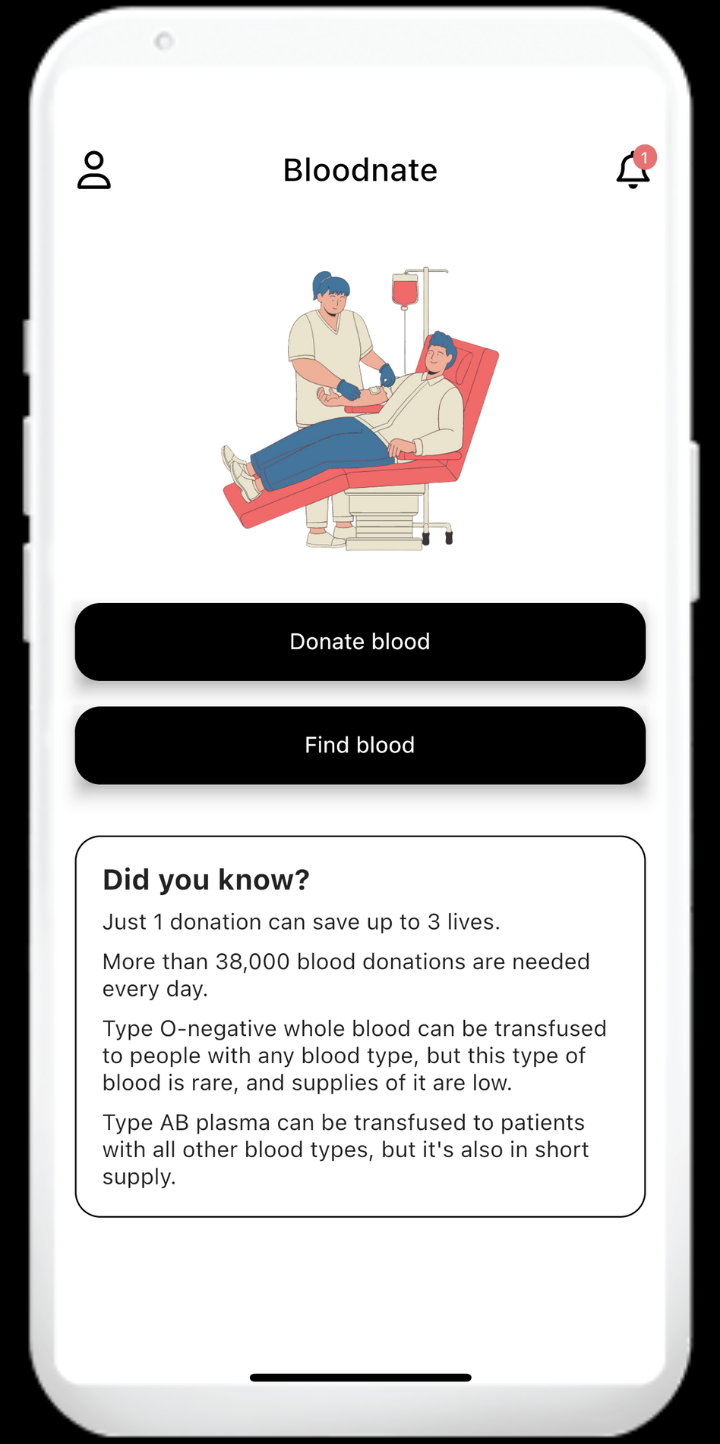
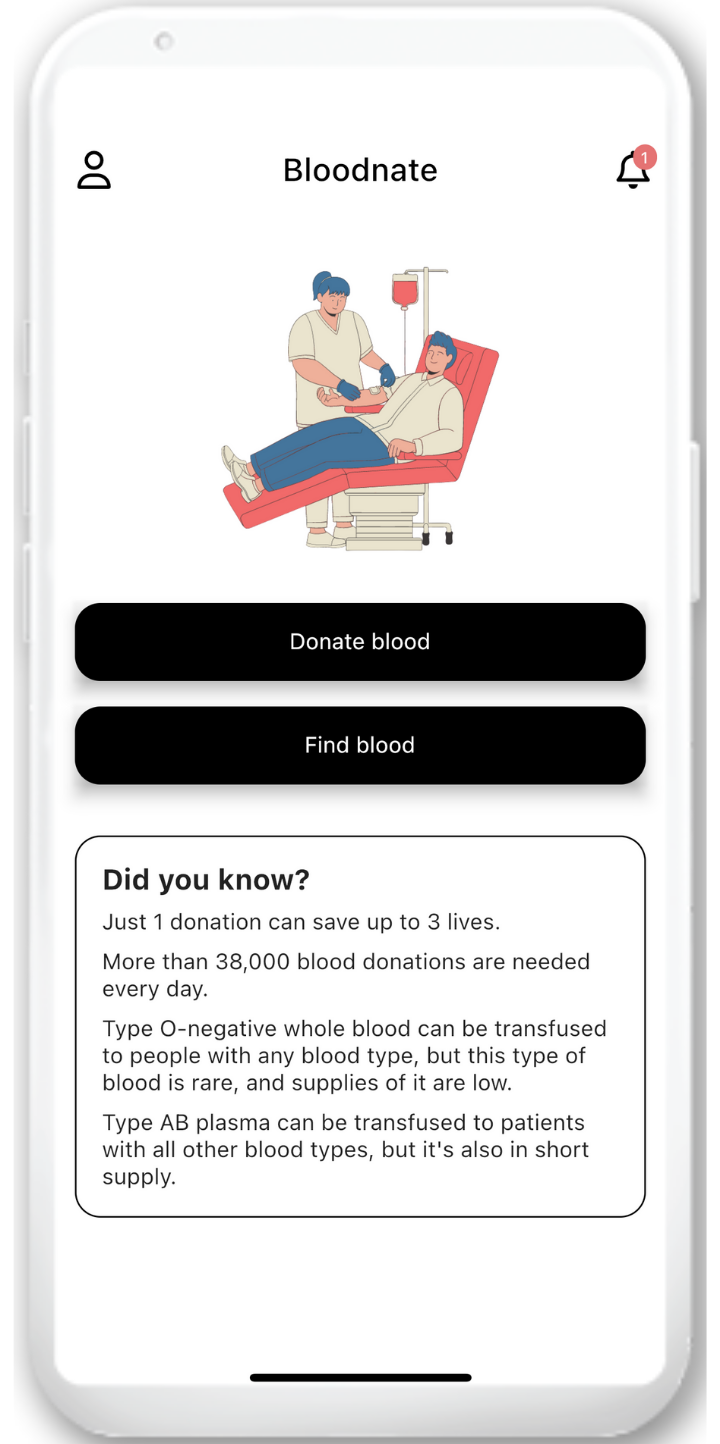
adds home header

Changed region(s): [[0.0, 0.0, 1.0, 1.0]]

diff --git a/lib/components/home_header.dart b/lib/components/home_header.dart
@@ -1,0 +1,160 @@
+import 'package:bloodnate_website/constants_and_methods.dart';
+import 'package:flutter/material.dart';
+
+class HomeHeader extends StatelessWidget {
+  const HomeHeader({super.key});
+
+  @override
+  Widget build(BuildContext context) {
+    if(isMobile(context) || isTablet(context)){
+      return const Mobile();
+    }
+    return const Desktop();
+  }
+}
+
+class Desktop extends StatelessWidget {
+  const Desktop({super.key});
+
+  @override
+  Widget build(BuildContext context) {
+    return Container(
+      padding: const EdgeInsets.all(48),
+      child: Row(
+        children: const [
+          Expanded(
+            child: Content()
+          ),
+          Expanded(
+              child: BloodnateImage()
+          )
+        ],
+      ),
+    );
+  }
+}
+
+class Mobile extends StatelessWidget {
+  const Mobile({super.key});
+
+  @override
+  Widget build(BuildContext context) {
+    return Container(
+      padding: const EdgeInsets.all(24),
+      child: Column(
+        children: const [
+          Content(),
+          SizedBox(height: 32,),
+          BloodnateImage()
+        ],
+      ),
+    );
+  }
+}
+
+class BloodnateImage extends StatelessWidget {
+  const BloodnateImage({
+    super.key,
+  });
+
+  @override
+  Widget build(BuildContext context) {
+    return Center(
+            child: Stack(
+    alignment: AlignmentDirectional.center,
+    children: [
+      Image.asset(
+        'assets/curls.png',
+        height: isMobile(context)?300:500,
+      ),
+      Image.asset(
+        'assets/0.png',
+        height: isMobile(context)?300:500,
+      ),
+      Image.asset(
+        'assets/cone.png',
+        height: isMobile(context)?300:500,
+      )
+    ],
+            ),
+          );
+  }
+}
+
+class Content extends StatelessWidget {
+  const Content({
+    super.key,
+  });
+
+  @override
+  Widget build(BuildContext context) {
+    return Column(
+      crossAxisAlignment: CrossAxisAlignment.start,
+      children: [
+        Row(
+          children: [
+            Image.asset(
+              'assets/bloodnate_logo.png',
+              height: 48,
+            ),
+            const Text(
+              'Bloodnate',
+              style: TextStyle(
+                  color: Colors.white,
+                  fontSize: 24,
+                  fontWeight: FontWeight.bold),
+            ),
+          ],
+        ),
+        const SizedBox(
+          height: 24,
+        ),
+        Text(
+          'Launching\nSoon...',
+          style: TextStyle(
+              color: Colors.white,
+              fontSize: (isDesktop(context)?72:48),
+              fontWeight: FontWeight.bold),
+        ),
+        const SizedBox(
+          height: 24,
+        ),
+        Text(
+          tagLine,
+          style: const TextStyle(
+              color: Colors.white,
+              fontSize: 16,
+              overflow: TextOverflow.visible),
+        ),
+        const SizedBox(
+          height: 16,
+        ),
+        Text(
+          desc,
+          style: const TextStyle(
+              color: Colors.white,
+              fontSize: 16,
+              overflow: TextOverflow.visible),
+        ),
+        const SizedBox(
+          height: 24,
+        ),
+        TextButton(
+          onPressed: () {},
+          style: TextButton.styleFrom(
+            padding: const EdgeInsets.symmetric(
+                vertical: 20, horizontal: 32),
+            side: BorderSide(color: Colors.red.shade300, width: 2),
+          ),
+          child: const Text(
+            'Contact us',
+            style: TextStyle(
+                color: Colors.white,
+                fontWeight: FontWeight.bold,
+                fontSize: 16),
+          ),
+        )
+      ],
+    );
+  }
+}

diff --git a/lib/pages/homepage.dart b/lib/pages/homepage.dart
@@ -1,3 +1,4 @@
+import 'package:bloodnate_website/components/home_header.dart';
 import 'package:bloodnate_website/constants_and_methods.dart';
 import 'package:bloodnate_website/widgets/info_card.dart';
 import 'package:bloodnate_website/widgets/intro_card.dart';
@@ -14,27 +15,8 @@ class HomePage extends StatelessWidget {
         padding: const EdgeInsets.all(24),
         child: Column(
           children: [
-            const Text('Bloodnate',style: TextStyle(fontSize: 44,fontWeight: FontWeight.bold,color: Colors.white)),
-            //const Text("India's digital blood bank",style: TextStyle(fontSize: 24,color: Colors.white)),
-            Text(desc,style: const TextStyle(fontSize: 18,color: Colors.white),textAlign: TextAlign.center,),
-            const SizedBox(height: 32),
-            Container(
-              decoration: const BoxDecoration(
-                borderRadius: BorderRadius.all(Radius.circular(12)),
-                color: Colors.white
-              ),
-              padding: const EdgeInsets.all(24),
-              width: double.infinity,
-              child: Column(
-                children: [
-                  Image.asset('assets/img_bloodnate.png',height: 240,),
-                  //const Text('Bloodnate',style: TextStyle(fontSize: 44,fontWeight: FontWeight.bold)),
-                  Text(tagLine,style: const TextStyle(fontSize: 24,)),
-                  const Text('Coming Soon...',style: TextStyle(fontSize: 44,fontWeight: FontWeight.bold,)),
-                ],
-              ),
-            ),
-            const SizedBox(height: 32),
+            const HomeHeader(),
+            const SizedBox(height: 64),
             Row(
               children: [
                 const Expanded(

diff --git a/lib/constants_and_methods.dart b/lib/constants_and_methods.dart
@@ -10,6 +10,18 @@ AppBar appBar({required String title}){
   );
 }
 
+bool isMobile(BuildContext context){
+  return MediaQuery.of(context).size.width < 480;
+}
+
+bool isTablet(BuildContext context){
+  return MediaQuery.of(context).size.width < 800;
+}
+
+bool isDesktop(BuildContext context){
+  return MediaQuery.of(context).size.width > 800;
+}
+
 String desc = 'Bloodnate is an idea of digitalising all blood banks of india, bloodnate would act as an interface between all the blood centers and blood banks to make blood donation and blood searching easy, quick and on finger tips';
 
 String intro = 'Bloodnate is a mobile application designed to help people find required blood components from blood banks. The app provides a convenient way for users to check the availability of blood components, such as whole blood, platelets, plasma, and other blood products, through their smartphones';

diff --git a/web/index.html b/web/index.html
@@ -24,10 +24,10 @@
   <meta name="apple-mobile-web-app-capable" content="yes">
   <meta name="apple-mobile-web-app-status-bar-style" content="black">
   <meta name="apple-mobile-web-app-title" content="bloodnate_website">
-  <link rel="apple-touch-icon" href="icons/Icon-192.png">
+  <link rel="apple-touch-icon" href="assets/bloodnate_logo.png">
 
   <!-- Favicon -->
-  <link rel="icon" type="image/png" href="favicon.png"/>
+  <link rel="icon" type="image/png" href="assets/bloodnate_logo.png"/>
 
   <title>bloodnate_website</title>
   <link rel="manifest" href="manifest.json">

diff --git a/lib/main.dart b/lib/main.dart
@@ -12,7 +12,7 @@ class App extends StatelessWidget {
   @override
   Widget build(BuildContext context) {
     return MaterialApp(
-      title: 'Flutter Demo',
+      title: 'Bloodnate',
       theme: ThemeData(
         primarySwatch: black,
         primaryColor: Colors.black,
